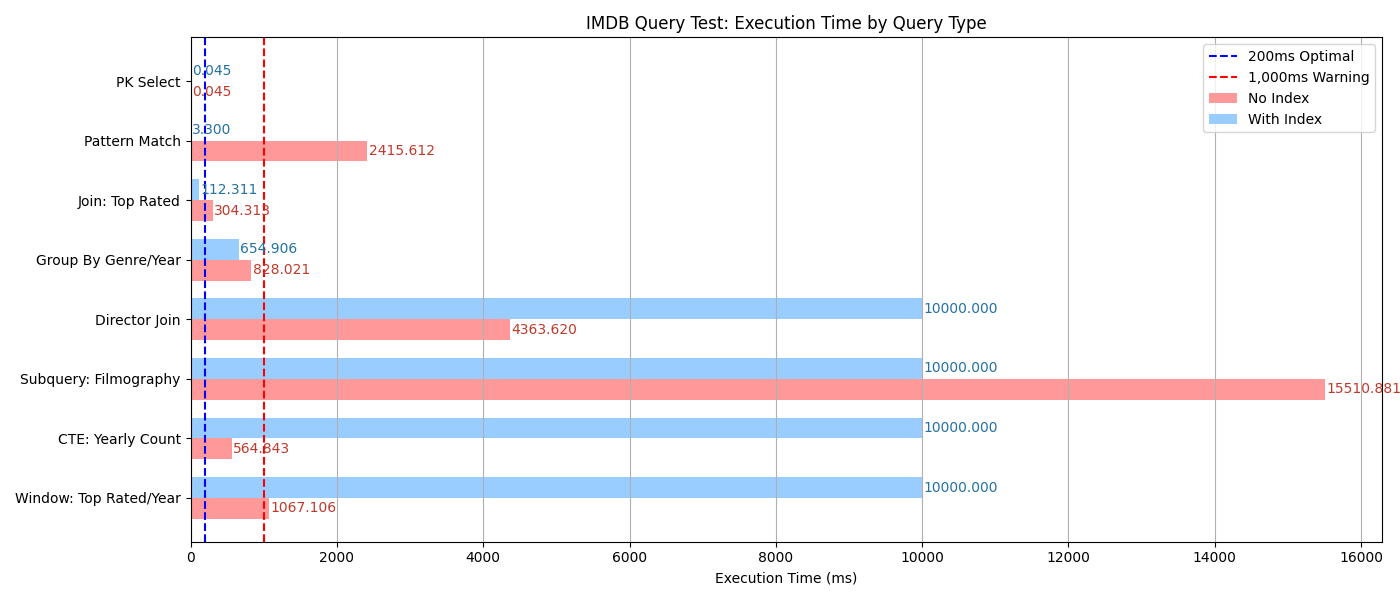
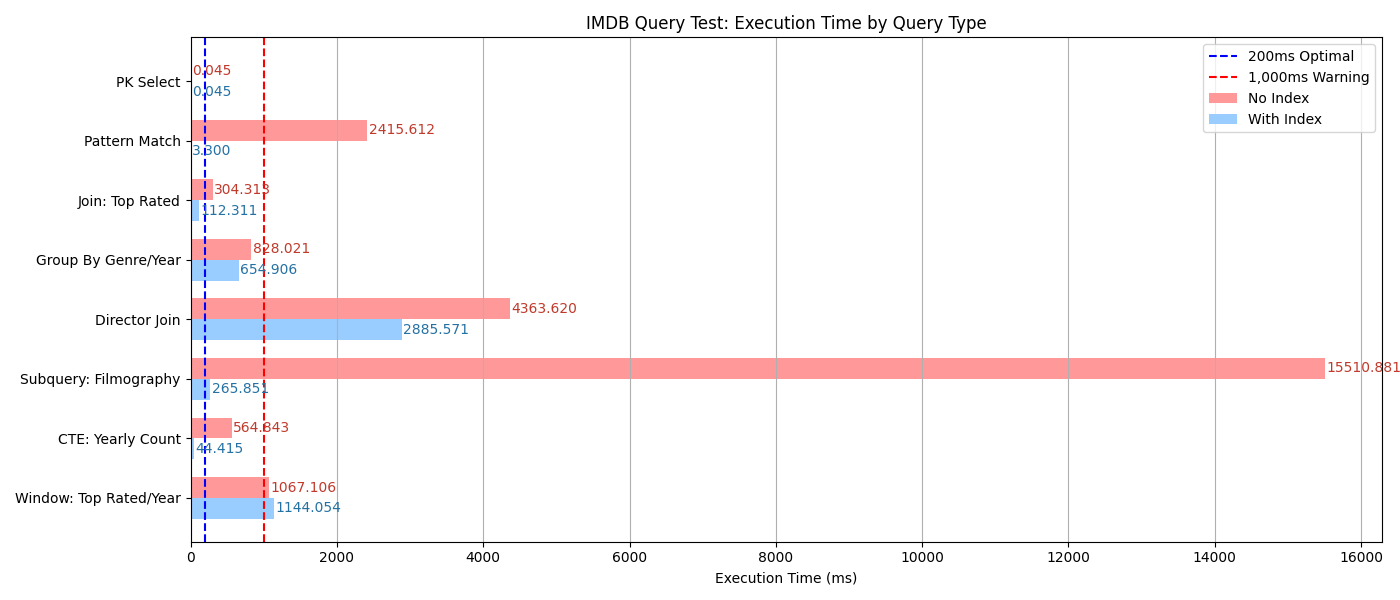
fix: Update execution times in results script and correct visualization for query performance comparison

Changed region(s): [[0.1229, 0.3, 1.0, 0.87], [0.1229, 0.18, 0.3071, 0.27]]

diff --git a/results/01_query_result.py b/results/01_query_result.py
@@ -22,25 +22,23 @@ execution_times_with_index = [
     112.311,    # Join: Top Rated Movies (With Index)
     654.906,    # Multi-condition Group By (With Index)
     2885.571,   # Director Join (With Index)
-    265.851,      # Subquery: Actor Filmography (With Index)
-    44.415,      # CTE: Yearly Counts (With Index)
-    10000       # Window Function (With Index)
+    265.851,    # Subquery: Actor Filmography (With Index)
+    44.415,     # CTE: Yearly Counts (With Index)
+    1144.054    # Window Function (With Index)
 ]
 
-query_names_rev = query_names[::-1]
-execution_times_no_index_rev = execution_times_no_index[::-1]
-execution_times_with_index_rev = execution_times_with_index[::-1]
 y = np.arange(len(query_names))
 height = 0.35
 
 plt.figure(figsize=(14, 6))
 
 # No Index
-bar_no_index = plt.barh(y - height/2, execution_times_no_index_rev, height, label='No Index', color='#FF9999')
+bar_no_index = plt.barh(y - height/2, execution_times_no_index, height, label='No Index', color='#FF9999')
 # With Index
-bar_with_index = plt.barh(y + height/2, execution_times_with_index_rev, height, label='With Index', color='#99CCFF')
+bar_with_index = plt.barh(y + height/2, execution_times_with_index, height, label='With Index', color='#99CCFF')
 
-plt.yticks(y, query_names_rev)
+plt.yticks(y, query_names)
+plt.gca().invert_yaxis()
 
 plt.axvline(200, color='blue', linestyle='--', label='200ms Optimal') # 200ms
 plt.axvline(1000, color='red', linestyle='--', label='1,000ms Warning') # 1000ms

diff --git a/README.md b/README.md
@@ -768,6 +768,33 @@ Subquery Scan on sub  (cost=270411.54..282866.47 rows=425 width=38) (actual time
               ->  Sort  (cost=269411.38..269499.96 rows=35432 width=30) (actual time=1011.479..1031.273 rows=111098 loops=3)
                     Sort Key: b.startyear, r.averagerating DESC
                     Sort Method: external merge  Disk: 4080kB
+                    Buffers: shared hit=541 read=140234, temp read=12360 written=12435
+                    Worker 0:  Sort Method: external merge  Disk: 4328kB
+                    Worker 1:  Sort Method: external merge  Disk: 4328kB
+                    ->  Parallel Hash Join  (cost=239560.99..266734.00 rows=35432 width=30) (actual time=823.871..950.412 rows=111098 loops=3)
+                          Hash Cond: (r.tconst = b.tconst)
+                          Buffers: shared hit=513 read=140234, temp read=10768 written=10840
+                          ->  Parallel Seq Scan on title_ratings r  (cost=0.00..16878.26 rows=665426 width=16) (actual time=0.058..70.876 rows=532341 loops=3)
+                                Buffers: shared read=10224
+                          ->  Parallel Hash  (cost=234237.68..234237.68 rows=262025 width=34) (actual time=640.815..640.817 rows=205074 loops=3)
+                                Buckets: 131072  Batches: 8  Memory Usage: 6272kB
+                                Buffers: shared hit=445 read=130010, temp written=3560
+                                ->  Parallel Bitmap Heap Scan on title_basics b  (cost=8622.24..234237.68 rows=262025 width=34) (actual time=38.840..559.939 rows=205074 loops=3)
+                                      Recheck Cond: ((titletype = 'movie'::text) AND (startyear IS NOT NULL))
+                                      Rows Removed by Index Recheck: 1359533
+                                      Heap Blocks: exact=19530 lossy=21019
+                                      Buffers: shared hit=445 read=130010
+                                      ->  Bitmap Index Scan on idx_basics_type_year  (cost=0.00..8465.02 rows=628859 width=0) (actual time=34.138..34.139 rows=615221 loops=1)
+                                            Index Cond: ((titletype = 'movie'::text) AND (startyear IS NOT NULL))
+                                            Buffers: shared hit=309 read=225
+Planning:
+  Buffers: shared hit=66 read=10
+Planning Time: 4.892 ms
+JIT:
+  Functions: 42
+  Options: Inlining false, Optimization false, Expressions true, Deforming true
+  Timing: Generation 1.847 ms (Deform 0.851 ms), Inlining 0.000 ms, Optimization 1.158 ms, Emission 19.518 ms, Total 22.522 ms
+Execution Time: 1144.054 ms
 ```
 
 Even with well-designed indexes, window function queries involving PARTITION BY and ORDER BY often require full data scans and large in-memory or disk-based sorts.
